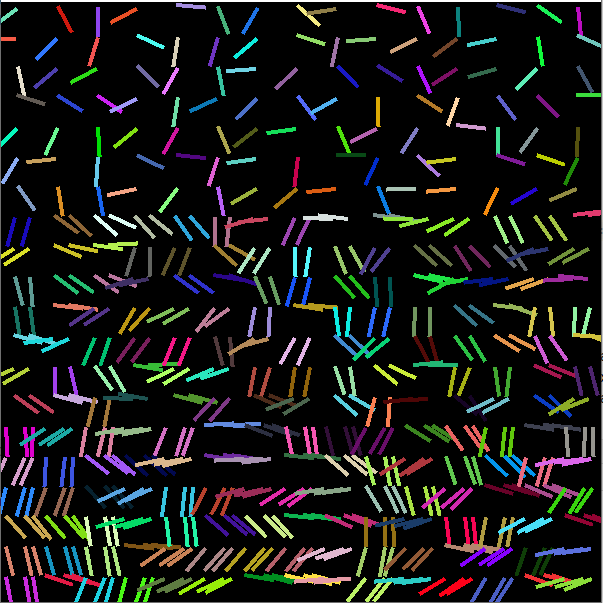
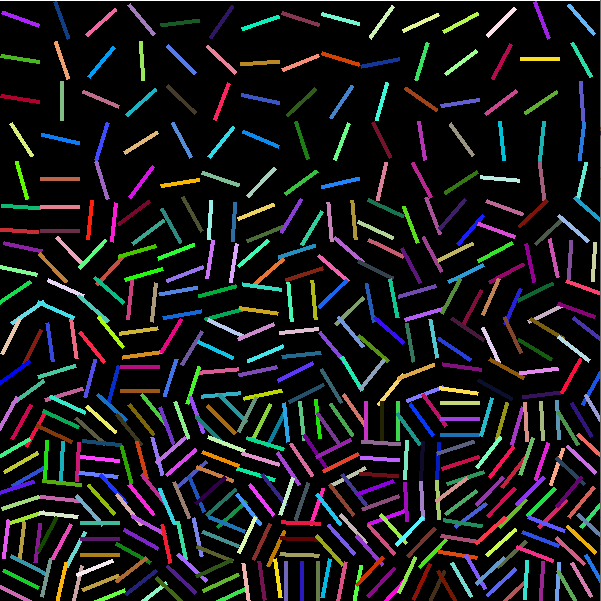
refactor UnDeuxTrius with Vertex

diff --git a/UnDeuxTrois/draw.cpp b/UnDeuxTrois/draw.cpp
@@ -2,52 +2,65 @@
 // Created by liutao3 on 2020/7/8.
 //
 #include <SFML/Graphics.hpp>
-#include <iostream>
 #include <vector>
 #include "../constants.h"
 #include "../utils.h"
 
 static float thickness { 4.f };
-static float length { 30.f };
+static float length { 40.f };
 
-sf::RectangleShape* generateLine(float x, float y, float l, sf::Color& color, int rotateMin=-90, int rorateMax=90) {
-    auto line { new sf::RectangleShape };
-    line->setPosition(x, y);
-    line->setSize(sf::Vector2(thickness, l));
-    line->rotate(randomNumber(rotateMin, rorateMax));
-    line->setFillColor(color);
+
+sf::Vertex* generateLine(float x, float y, float l, sf::Color& color) {
+    auto p1 { sf::Vertex(sf::Vector2f(x, y), color )};
+    auto p2 { sf::Vertex(sf::Vector2f(x, y+l), color) };
+    auto p3 { sf::Vertex(sf::Vector2f(x+thickness, y+l), color) };
+    auto p4 { sf::Vertex(sf::Vector2f(x+thickness, y), color) };
+    sf::Vertex* line { new sf::Vertex[4] };
+    line[0] = p1;
+    line[1] = p2;
+    line[2] = p3;
+    line[3] = p4;
     return line;
+}
+
+void rotateLine(sf::Vertex* line, float rX, float rY, int ang) {
+    sf::Transform rotation;
+    rotation.rotate(ang, rX, rY);
+    for (int i {0}; i<4; ++i){
+        line[i].position =  rotation.transformPoint(line[i].position);
+    }
+}
+
+float getMargin(int n, int i) {
+    static const float marginMap[3][3] {
+            {0.5f, -1.f, -1.f},
+            {0.2f, 0.8f, -1.f},
+            {0.1f, 0.5f, 0.9f}
+    };
+    return marginMap[n-1][i];
+}
+
+void drawLinesGrid(float pX, float pY, int n, std::vector<sf::Vertex*>& lines) {
+    float width { 40.f };
+
+    float midX { pX + width/2 };
+    float midY { pY + length/2 };
+    int ang { randomNumber(-90, 90) };
+    for (int i {0}; i<n; ++i) {
+        auto line { generateLine(pX+width*getMargin(n, i), pY, length, *randomColor()) };
+        rotateLine(line, midX, midY, ang);
+        lines.push_back(line);
+    }
 }
 
 int drawUnDeuxTrois() {
     auto window { getWindow("Un Deux Trois") };
 
-    std::vector<sf::RectangleShape*> lines;
+    std::vector<sf::Vertex*> lines;
 
-    for (int i{0}; i<constants::width;i+=40) {
-        int j { 0 };
-        while (j<constants::width) {
-            float x { i+15.f };
-            float y { j+5.f };
-            auto color { randomColor() };
-
-            if (j<constants::width/3) {
-                lines.push_back(generateLine(x, y, length, *color));
-            } else if (j<2*constants::width/3) {
-                int rotateNumber { randomNumber(-90, 90) };
-                lines.push_back(generateLine(x-3, y, length, *color, rotateNumber-10, rotateNumber+10));
-                lines.push_back(generateLine(x+12, y, length, *color, rotateNumber-10, rotateNumber+10));
-            } else {
-                int rotateNumber { randomNumber(-90, 90) };
-                int rMin { rotateNumber - 3 };
-                int rMax { rotateNumber + 3 };
-
-                lines.push_back(generateLine(x-12, y, length, *color, rMin, rMax));
-                lines.push_back(generateLine(x+7, y, length, *color, rMin, rMax));
-                lines.push_back(generateLine(x+15, y, length, *color, rMin, rMax));
-            }
-
-            j+=length;
+    for (int r{0}; r<constants::width; r+=40.f){
+        for (int c{0}; c<constants::width; c+=length) {
+            drawLinesGrid(r, c, c/(constants::width/3) + 1, lines);
         }
     }
 
@@ -58,12 +71,12 @@ int drawUnDeuxTrois() {
                 window->close();
             }
         }
-
         window->clear();
         for (auto line: lines) {
-            window->draw(*line);
+            window->draw(line, 4, sf::Quads);
         }
         window->display();
     }
+    return 0;
 };
 
